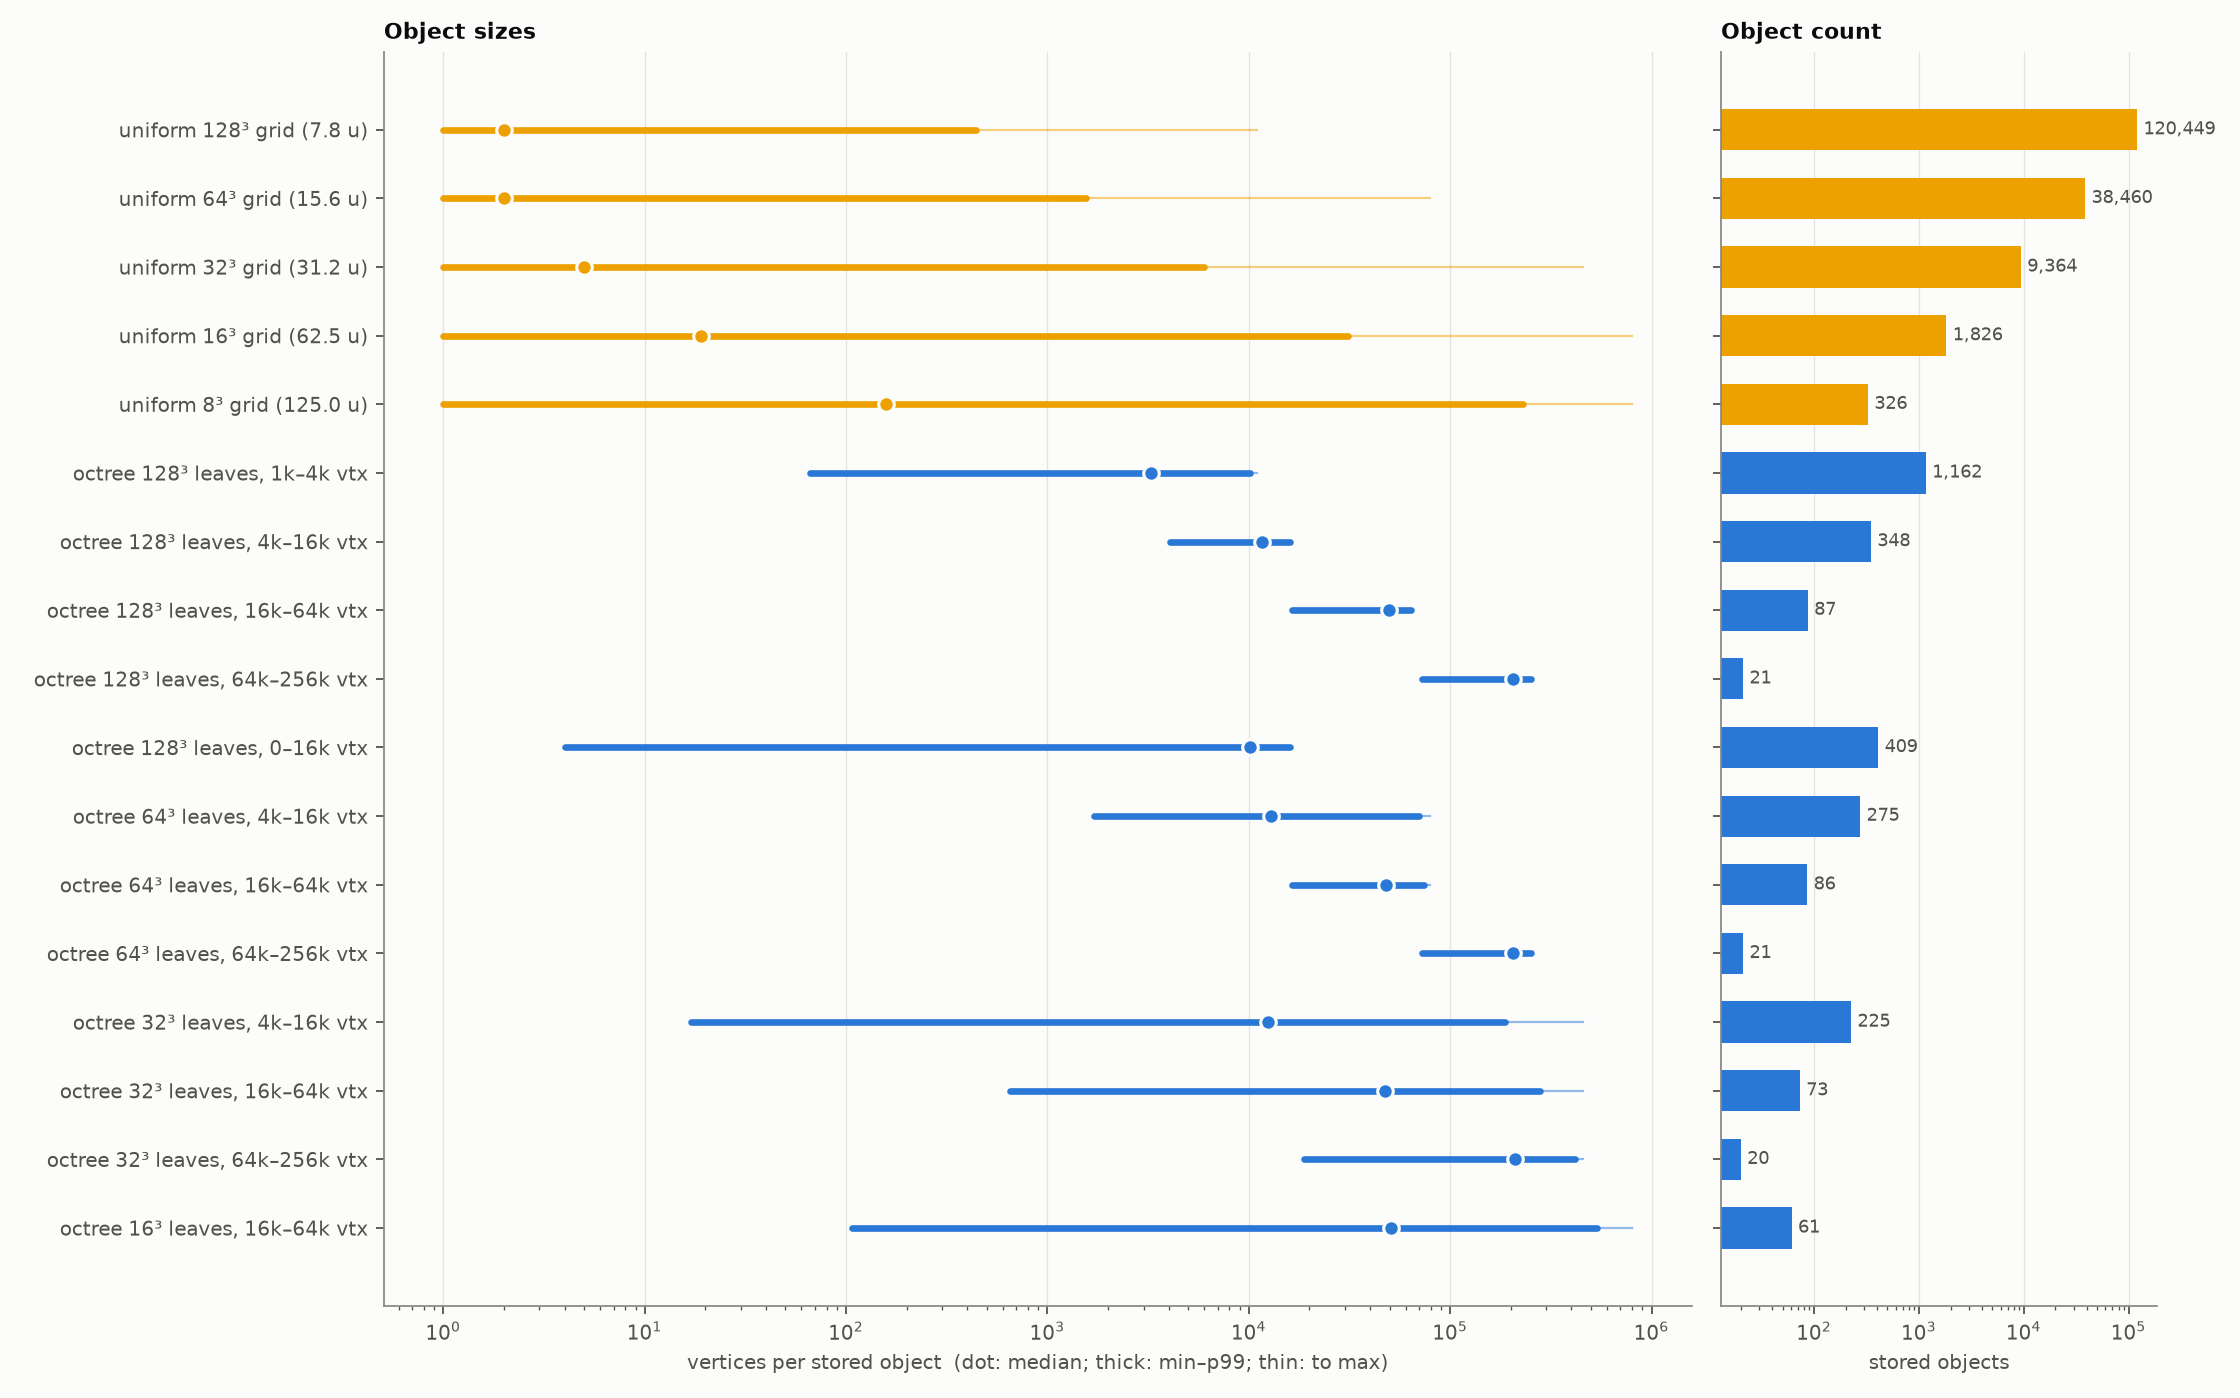
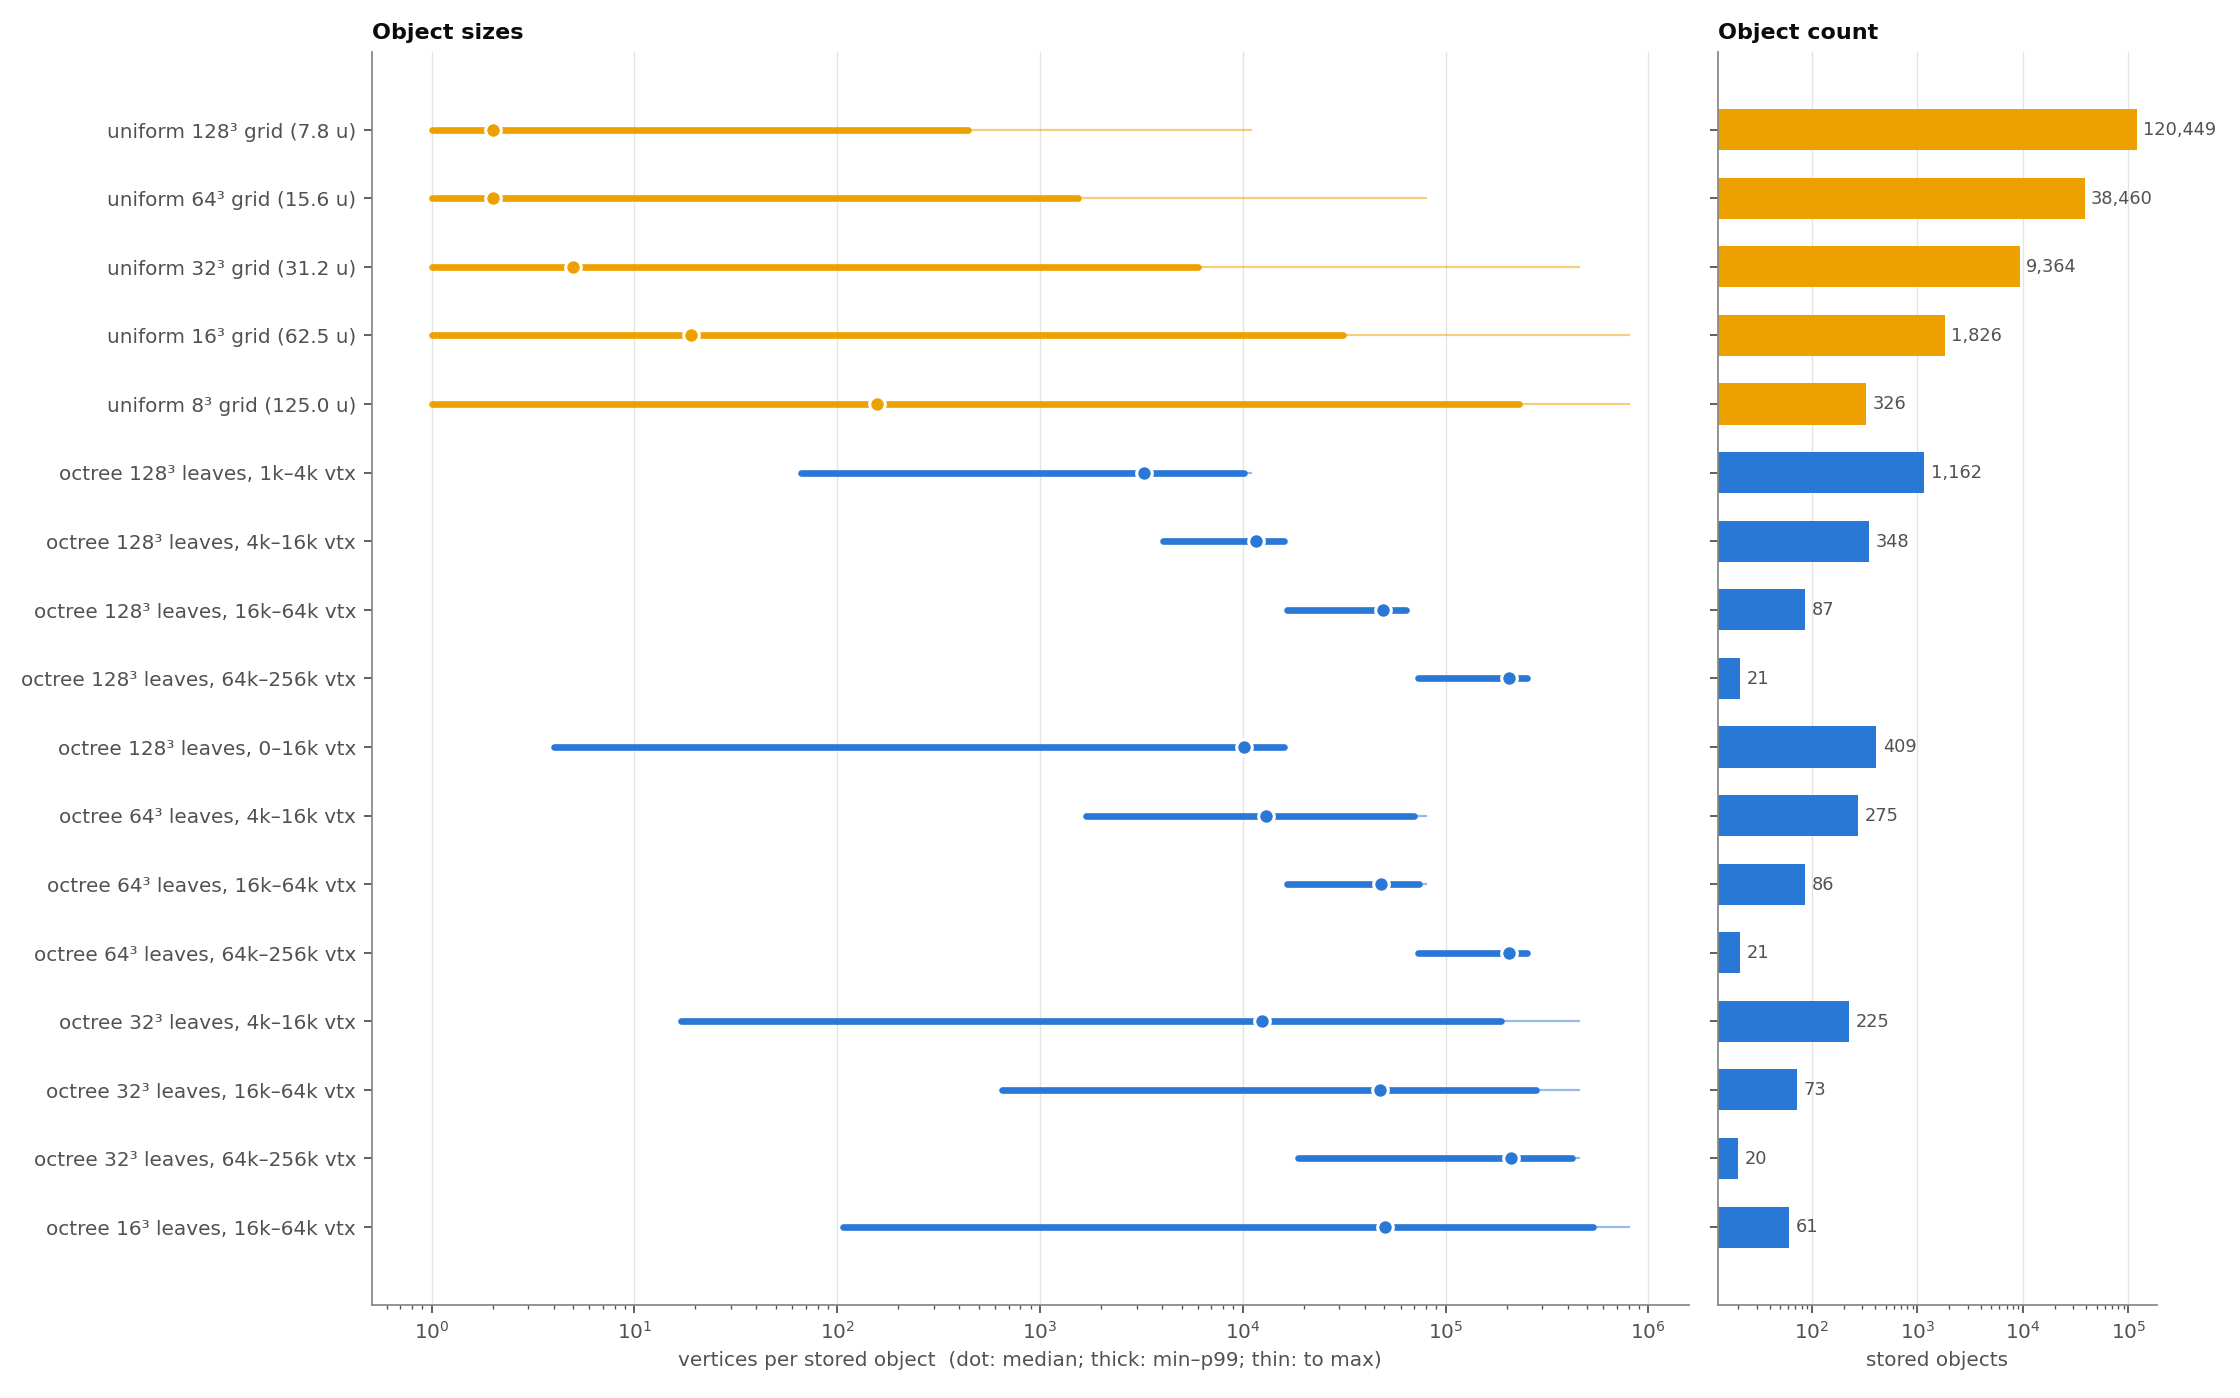
Figures on a white background
SURFACE is now white (and the zv marker outlines follow it).  Every figure
whose results are committed is redrawn from them: concept, bounds_*,
index_*, zv_*.  objects, queries, slice_and_cold, sweep and
points_and_octree need bench.py's gitignored intermediates (results/*.npy,
_data/, _stores/), so their background pixels were recoloured to white
instead; nothing else in them changed.

diff --git a/bench/figures_zv.py b/bench/figures_zv.py
@@ -13,7 +13,7 @@ import matplotlib.pyplot as plt
 import matplotlib.ticker
 import numpy as np
 
-from figures import HERE, INK2, MUTED
+from figures import HERE, INK2, MUTED, SURFACE
 
 # Fixed order, validated (dataviz validate_palette.js, light): colour follows the reader everywhere;
 # the marker (square: sharding_indexed, circle: octree) is the second cue.
@@ -31,7 +31,7 @@ LABEL = {
 STORE_COLOR = {"indexed": COLOR["indexed"], "octree": COLOR["octree-runs"]}
 STORE_LABEL = {"indexed": "sharding_indexed", "octree": "zarr_octree_sharding"}
 KINDS = [("box-dense", "Boxes centred on a vertex"), ("box-uniform", "Boxes placed uniformly"), ("objects", "Objects (~1,000 vertices each)")]
-MARK = dict(markersize=7, markeredgecolor="#fcfcfb", markeredgewidth=1.2)
+MARK = dict(markersize=7, markeredgecolor=SURFACE, markeredgewidth=1.2)
 
 
 def split(layout: str) -> tuple[str, int]:

diff --git a/bench/figures.py b/bench/figures.py
@@ -25,7 +25,7 @@ from zarr_octree import OctreeStore
 HERE = Path(__file__).parent
 
 # Reference palette (dataviz skill), light mode.  Colour follows the layout everywhere.
-SURFACE = "#fcfcfb"
+SURFACE = "#ffffff"
 INK = "#0b0b0b"
 INK2 = "#52514e"
 MUTED = "#8a8985"
